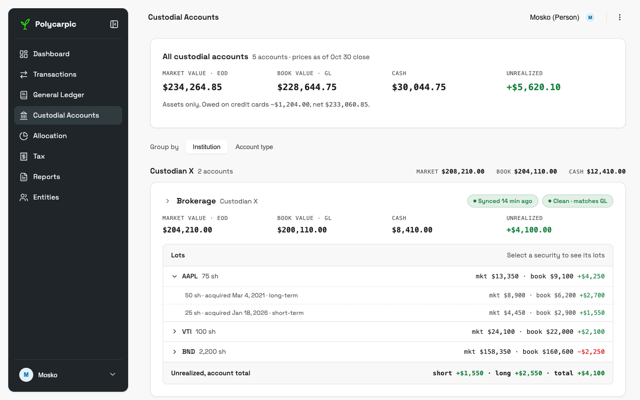
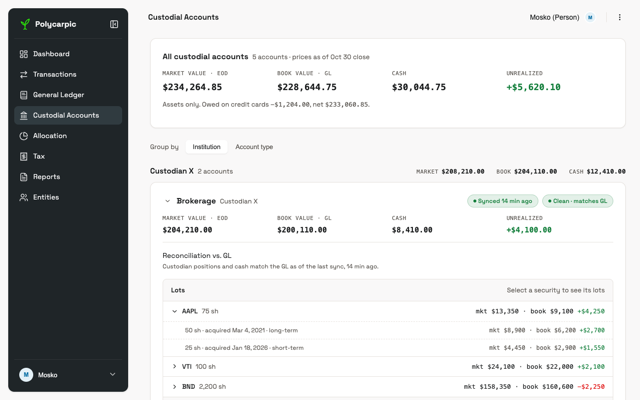
docs(design): lots live inside the expanded Custodial card
The account chevron opens reconciliation, then the lots sub-card with
its per-security pull-downs. A collapsed card is header and figures
only. Primary Checking and Brokerage are shown open.

Claude-Session: https://claude.ai/code/session_01ShccjFP7Z1Dk7HdwDs5thG

Changed region(s): [[0.6875, 0.63, 0.9688, 0.99], [0.25, 0.63, 0.5938, 0.99]]

diff --git a/docs/DESIGN/styled-screens/custodial-accounts.html b/docs/DESIGN/styled-screens/custodial-accounts.html
@@ -8,7 +8,7 @@
 <link rel="stylesheet" href="../screen.css">
 </head>
 <body>
-<!-- Custodial Accounts. A totals card, a group-by toggle (Institution by default, or Account type), then one card per physical account under group headers. A group header carries the account count and the summed market value, book value and cash; the Account type headers are shown as a reference below the groups. The default is Institution because a link and its sync, token and re-auth belong to one provider, so a broken link reads as one group. Every card shows the same three figures side by side, left to right: market value (cash + positions at EOD prices), book value (the GL's cost basis, cash included) and cash balance, then Unrealized; the order reads as "market and book include cash"; the totals card sums them across asset accounts, whichever grouping is on, and states what is owed on credit cards beside it. A credit card shows what is owed as a negative market and book value, with no cash or Unrealized, and that negative nets into its group. The card header carries two badges in a fixed order: link health first (caution tier for an expired or stale link that still has cached data), then reconciliation vs. GL, because a reconciliation is only as current as the link behind it. A card rests collapsed to its header and figures; a chevron left of the title opens its reconciliation details (Primary Checking shown open: a known unposted delta, the custodian $42.00 below the GL by exactly one staged draft, with the muted badge and a link to Pending, not a break). For a brokerage the lots sub-card stays its own Collapsible outside those details, one security pulled down, because lots answer a different question from reconciliation. Sync pulls balances AND positions. The provider-item Dialog (More > New provider item) is shown open below the cards as the reference, same convention as the journal-entry modal. Viewers see no Sync / New / token-refresh / unlink actions. -->
+<!-- Custodial Accounts. A totals card, a group-by toggle (Institution by default, or Account type), then one card per physical account under group headers. A group header carries the account count and the summed market value, book value and cash; the Account type headers are shown as a reference below the groups. The default is Institution because a link and its sync, token and re-auth belong to one provider, so a broken link reads as one group. Every card shows the same three figures side by side, left to right: market value (cash + positions at EOD prices), book value (the GL's cost basis, cash included) and cash balance, then Unrealized; the order reads as "market and book include cash"; the totals card sums them across asset accounts, whichever grouping is on, and states what is owed on credit cards beside it. A credit card shows what is owed as a negative market and book value, with no cash or Unrealized, and that negative nets into its group. The card header carries two badges in a fixed order: link health first (caution tier for an expired or stale link that still has cached data), then reconciliation vs. GL, because a reconciliation is only as current as the link behind it. A card rests collapsed to its header and figures; a chevron left of the title opens its details. Details are the reconciliation line, then for an account that holds securities the lots sub-card with a pull-down per security. Two cards are shown open: Primary Checking for a known unposted delta (the custodian $42.00 below the GL by exactly one staged draft, with the muted badge and a link to Pending, not a break) and Brokerage for its lots, one security pulled down. Sync pulls balances AND positions. The provider-item Dialog (More > New provider item) is shown open below the cards as the reference, same convention as the journal-entry modal. Viewers see no Sync / New / token-refresh / unlink actions. -->
 <div class="shell">
   <aside class="sidebar" id="app-sidebar">
     <!-- Brand row (pass 12, Gemini pattern): expanded = logo + wordmark,
@@ -83,7 +83,7 @@
       </div>
     <div class="card">
       <div class="custodial-head">
-        <span class="custodial-title"><button class="alloc-disclosure" type="button" aria-expanded="false" aria-controls="recon-brokerage" aria-label="Show Brokerage reconciliation details"><span class="icon icon-sm"><svg viewBox="0 0 24 24" fill="none" stroke="currentColor" stroke-width="2" stroke-linecap="round" stroke-linejoin="round" aria-hidden="true"><path d="m9 18 6-6-6-6"/></svg></span></button><span class="custodial-name">Brokerage <span class="institution">Custodian X</span></span></span>
+        <span class="custodial-title"><button class="alloc-disclosure" type="button" aria-expanded="true" aria-controls="details-brokerage" aria-label="Hide Brokerage details"><span class="icon icon-sm"><svg viewBox="0 0 24 24" fill="none" stroke="currentColor" stroke-width="2" stroke-linecap="round" stroke-linejoin="round" aria-hidden="true"><path d="m6 9 6 6 6-6"/></svg></span></button><span class="custodial-name">Brokerage <span class="institution">Custodian X</span></span></span>
         <span class="custodial-meta"><span class="badge badge-positive-soft"><span class="status-dot"></span>Synced 14 min ago</span><span title="Reconciliation vs. GL" class="badge badge-positive-soft"><span class="status-dot"></span>Clean · matches GL</span></span>
       </div>
       <div class="custodial-figs">
@@ -92,22 +92,22 @@
         <div class="custodial-fig"><span class="eyebrow">Cash</span><span class="custodial-fig-value">$8,410.00</span></div>
         <div class="custodial-fig"><span class="eyebrow">Unrealized</span><span class="custodial-fig-value"><span class="gain-positive">+$4,100.00</span></span></div>
       </div>
-      <div class="custodial-recon" id="recon-brokerage" role="group" aria-label="Brokerage reconciliation details" hidden>
+      <div class="custodial-details" id="details-brokerage" role="group" aria-label="Brokerage details">
         <div class="kv-row"><span class="kv-label">Reconciliation vs. GL<span class="kv-help">Custodian positions and cash match the GL as of the last sync, 14 min ago.</span></span></div>
-      </div>
-      <div class="lots">
-        <div class="lots-head"><span>Lots</span><span class="card-sub" style="font-weight:400;">Select a security to see its lots</span></div>
-        <div class="lot-security" aria-expanded="true"><span class="lot-name"><span class="icon icon-sm"><svg viewBox="0 0 24 24" fill="none" stroke="currentColor" stroke-width="2" stroke-linecap="round" stroke-linejoin="round"><path d="m6 9 6 6 6-6"/></svg></span>AAPL <span class="card-sub" style="font-weight:400;">75 sh</span></span><span class="lot-figs">mkt $13,350 · book $9,100 <span class="gain-positive">+$4,250</span></span></div>
-        <div class="lot-detail"><span>50 sh · acquired Mar 4, 2021 · long-term</span><span class="lot-figs">mkt $8,900 · book $6,200 <span class="gain-positive">+$2,700</span></span></div>
-        <div class="lot-detail"><span>25 sh · acquired Jan 18, 2026 · short-term</span><span class="lot-figs">mkt $4,450 · book $2,900 <span class="gain-positive">+$1,550</span></span></div>
-        <div class="lot-security" aria-expanded="false"><span class="lot-name"><span class="icon icon-sm"><svg viewBox="0 0 24 24" fill="none" stroke="currentColor" stroke-width="2" stroke-linecap="round" stroke-linejoin="round"><path d="m9 18 6-6-6-6"/></svg></span>VTI <span class="card-sub" style="font-weight:400;">100 sh</span></span><span class="lot-figs">mkt $24,100 · book $22,000 <span class="gain-positive">+$2,100</span></span></div>
-        <div class="lot-security" aria-expanded="false"><span class="lot-name"><span class="icon icon-sm"><svg viewBox="0 0 24 24" fill="none" stroke="currentColor" stroke-width="2" stroke-linecap="round" stroke-linejoin="round"><path d="m9 18 6-6-6-6"/></svg></span>BND <span class="card-sub" style="font-weight:400;">2,200 sh</span></span><span class="lot-figs">mkt $158,350 · book $160,600 <span class="gain-negative">−$2,250</span></span></div>
-        <div class="lots-total"><span>Unrealized, account total</span><span class="lot-figs">short <span class="gain-positive">+$1,550</span> · long <span class="gain-positive">+$2,550</span> · total <span class="gain-positive">+$4,100</span></span></div>
+        <div class="lots">
+          <div class="lots-head"><span>Lots</span><span class="card-sub" style="font-weight:400;">Select a security to see its lots</span></div>
+          <div class="lot-security" aria-expanded="true"><span class="lot-name"><span class="icon icon-sm"><svg viewBox="0 0 24 24" fill="none" stroke="currentColor" stroke-width="2" stroke-linecap="round" stroke-linejoin="round"><path d="m6 9 6 6 6-6"/></svg></span>AAPL <span class="card-sub" style="font-weight:400;">75 sh</span></span><span class="lot-figs">mkt $13,350 · book $9,100 <span class="gain-positive">+$4,250</span></span></div>
+          <div class="lot-detail"><span>50 sh · acquired Mar 4, 2021 · long-term</span><span class="lot-figs">mkt $8,900 · book $6,200 <span class="gain-positive">+$2,700</span></span></div>
+          <div class="lot-detail"><span>25 sh · acquired Jan 18, 2026 · short-term</span><span class="lot-figs">mkt $4,450 · book $2,900 <span class="gain-positive">+$1,550</span></span></div>
+          <div class="lot-security" aria-expanded="false"><span class="lot-name"><span class="icon icon-sm"><svg viewBox="0 0 24 24" fill="none" stroke="currentColor" stroke-width="2" stroke-linecap="round" stroke-linejoin="round"><path d="m9 18 6-6-6-6"/></svg></span>VTI <span class="card-sub" style="font-weight:400;">100 sh</span></span><span class="lot-figs">mkt $24,100 · book $22,000 <span class="gain-positive">+$2,100</span></span></div>
+          <div class="lot-security" aria-expanded="false"><span class="lot-name"><span class="icon icon-sm"><svg viewBox="0 0 24 24" fill="none" stroke="currentColor" stroke-width="2" stroke-linecap="round" stroke-linejoin="round"><path d="m9 18 6-6-6-6"/></svg></span>BND <span class="card-sub" style="font-weight:400;">2,200 sh</span></span><span class="lot-figs">mkt $158,350 · book $160,600 <span class="gain-negative">−$2,250</span></span></div>
+          <div class="lots-total"><span>Unrealized, account total</span><span class="lot-figs">short <span class="gain-positive">+$1,550</span> · long <span class="gain-positive">+$2,550</span> · total <span class="gain-positive">+$4,100</span></span></div>
+        </div>
       </div>
     </div>
     <div class="card">
       <div class="custodial-head">
-        <span class="custodial-title"><button class="alloc-disclosure" type="button" aria-expanded="false" aria-controls="recon-roth-ira" aria-label="Show Roth IRA reconciliation details"><span class="icon icon-sm"><svg viewBox="0 0 24 24" fill="none" stroke="currentColor" stroke-width="2" stroke-linecap="round" stroke-linejoin="round" aria-hidden="true"><path d="m9 18 6-6-6-6"/></svg></span></button><span class="custodial-name">Roth IRA <span class="institution">Custodian X</span></span></span>
+        <span class="custodial-title"><button class="alloc-disclosure" type="button" aria-expanded="false" aria-controls="details-roth-ira" aria-label="Show Roth IRA details"><span class="icon icon-sm"><svg viewBox="0 0 24 24" fill="none" stroke="currentColor" stroke-width="2" stroke-linecap="round" stroke-linejoin="round" aria-hidden="true"><path d="m9 18 6-6-6-6"/></svg></span></button><span class="custodial-name">Roth IRA <span class="institution">Custodian X</span></span></span>
         <span class="custodial-meta"><span class="badge badge-positive-soft"><span class="status-dot"></span>Synced 14 min ago</span><span title="Reconciliation vs. GL" class="badge badge-positive-soft"><span class="status-dot"></span>Clean · matches GL</span></span>
       </div>
       <div class="custodial-figs">
@@ -116,7 +116,7 @@
         <div class="custodial-fig"><span class="eyebrow">Cash</span><span class="custodial-fig-value">$4,000.00</span></div>
         <div class="custodial-fig"><span class="eyebrow">Unrealized</span><span class="custodial-fig-value">$0.00</span></div>
       </div>
-      <div class="custodial-recon" id="recon-roth-ira" role="group" aria-label="Roth IRA reconciliation details" hidden>
+      <div class="custodial-details" id="details-roth-ira" role="group" aria-label="Roth IRA details" hidden>
         <div class="kv-row"><span class="kv-label">Reconciliation vs. GL<span class="kv-help">Custodian cash matches the GL as of the last sync, 14 min ago.</span></span></div>
       </div>
     </div>
@@ -128,7 +128,7 @@
       </div>
     <div class="card">
       <div class="custodial-head">
-        <span class="custodial-title"><button class="alloc-disclosure" type="button" aria-expanded="true" aria-controls="recon-primary-checking" aria-label="Hide Primary Checking reconciliation details"><span class="icon icon-sm"><svg viewBox="0 0 24 24" fill="none" stroke="currentColor" stroke-width="2" stroke-linecap="round" stroke-linejoin="round" aria-hidden="true"><path d="m6 9 6 6 6-6"/></svg></span></button><span class="custodial-name">Primary Checking <span class="institution">Bank Y</span></span></span>
+        <span class="custodial-title"><button class="alloc-disclosure" type="button" aria-expanded="true" aria-controls="details-primary-checking" aria-label="Hide Primary Checking details"><span class="icon icon-sm"><svg viewBox="0 0 24 24" fill="none" stroke="currentColor" stroke-width="2" stroke-linecap="round" stroke-linejoin="round" aria-hidden="true"><path d="m6 9 6 6 6-6"/></svg></span></button><span class="custodial-name">Primary Checking <span class="institution">Bank Y</span></span></span>
         <span class="custodial-meta"><span class="badge badge-positive-soft"><span class="status-dot"></span>Synced 14 min ago</span><a class="badge badge-muted" href="transactions.html?account=primary-checking#pending" title="Open the staged draft in Pending, filtered to Primary Checking"><span class="icon icon-sm"><svg viewBox="0 0 24 24" fill="none" stroke="currentColor" stroke-width="2" stroke-linecap="round" stroke-linejoin="round" aria-hidden="true"><circle cx="12" cy="12" r="10"/><polyline points="12 6 12 12 16 14"/></svg></span>Known delta: 1 staged draft, −$42.00</a></span>
       </div>
       <div class="custodial-figs">
@@ -137,13 +137,13 @@
         <div class="custodial-fig"><span class="eyebrow">Cash</span><span class="custodial-fig-value">$17,634.75</span></div>
         <div class="custodial-fig"><span class="eyebrow">Unrealized</span><span class="custodial-fig-value">$0.00</span></div>
       </div>
-      <div class="custodial-recon" id="recon-primary-checking" role="group" aria-label="Primary Checking reconciliation details">
+      <div class="custodial-details" id="details-primary-checking" role="group" aria-label="Primary Checking details">
         <div class="kv-row"><span class="kv-label">Reconciliation vs. GL<span class="kv-help">Custodian reports $17,592.75; GL $17,634.75. The difference is one staged draft, not a break.</span></span><span class="kv-value"><a class="je-link" href="transactions.html?account=primary-checking#pending">Open the staged draft in Pending</a></span></div>
       </div>
     </div>
     <div class="card">
       <div class="custodial-head">
-        <span class="custodial-title"><button class="alloc-disclosure" type="button" aria-expanded="false" aria-controls="recon-visa-bank-y" aria-label="Show Visa — Bank Y reconciliation details"><span class="icon icon-sm"><svg viewBox="0 0 24 24" fill="none" stroke="currentColor" stroke-width="2" stroke-linecap="round" stroke-linejoin="round" aria-hidden="true"><path d="m9 18 6-6-6-6"/></svg></span></button><span class="custodial-name">Visa — Bank Y <span class="institution">Credit card</span></span></span>
+        <span class="custodial-title"><button class="alloc-disclosure" type="button" aria-expanded="false" aria-controls="details-visa-bank-y" aria-label="Show Visa — Bank Y details"><span class="icon icon-sm"><svg viewBox="0 0 24 24" fill="none" stroke="currentColor" stroke-width="2" stroke-linecap="round" stroke-linejoin="round" aria-hidden="true"><path d="m9 18 6-6-6-6"/></svg></span></button><span class="custodial-name">Visa — Bank Y <span class="institution">Credit card</span></span></span>
         <span class="custodial-meta"><span class="badge badge-positive-soft"><span class="status-dot"></span>Synced 14 min ago</span><span title="Reconciliation vs. GL" class="badge badge-positive-soft"><span class="status-dot"></span>Clean · matches GL</span></span>
       </div>
       <div class="custodial-figs">
@@ -152,7 +152,7 @@
         <div class="custodial-fig"><span class="eyebrow">Cash</span><span class="custodial-fig-value"><span aria-label="Not applicable">—</span></span></div>
         <div class="custodial-fig"><span class="eyebrow">Unrealized</span><span class="custodial-fig-value"><span aria-label="Not applicable">—</span></span></div>
       </div>
-      <div class="custodial-recon" id="recon-visa-bank-y" role="group" aria-label="Visa — Bank Y reconciliation details" hidden>
+      <div class="custodial-details" id="details-visa-bank-y" role="group" aria-label="Visa — Bank Y details" hidden>
         <div class="kv-row"><span class="kv-label">Reconciliation vs. GL<span class="kv-help">Custodian reports $1,204.00 owed; GL $1,204.00.</span></span></div>
       </div>
     </div>
@@ -164,7 +164,7 @@
       </div>
     <div class="card">
       <div class="custodial-head">
-        <span class="custodial-title"><button class="alloc-disclosure" type="button" aria-expanded="false" aria-controls="recon-crypto-wallet" aria-label="Show Crypto Wallet reconciliation details"><span class="icon icon-sm"><svg viewBox="0 0 24 24" fill="none" stroke="currentColor" stroke-width="2" stroke-linecap="round" stroke-linejoin="round" aria-hidden="true"><path d="m9 18 6-6-6-6"/></svg></span></button><span class="custodial-name">Crypto Wallet <span class="institution">Coinbase</span></span></span>
+        <span class="custodial-title"><button class="alloc-disclosure" type="button" aria-expanded="false" aria-controls="details-crypto-wallet" aria-label="Show Crypto Wallet details"><span class="icon icon-sm"><svg viewBox="0 0 24 24" fill="none" stroke="currentColor" stroke-width="2" stroke-linecap="round" stroke-linejoin="round" aria-hidden="true"><path d="m9 18 6-6-6-6"/></svg></span></button><span class="custodial-name">Crypto Wallet <span class="institution">Coinbase</span></span></span>
         <span class="custodial-meta"><span class="badge badge-warning-soft"><span class="status-dot"></span>Token expired · re-auth needed</span><span title="Reconciliation vs. GL" class="badge badge-warning-soft"><span class="status-dot"></span>Stale · last synced 6 days ago</span></span>
       </div>
       <div class="custodial-figs">
@@ -173,7 +173,7 @@
         <div class="custodial-fig"><span class="eyebrow">Cash</span><span class="custodial-fig-value">$0.00</span></div>
         <div class="custodial-fig"><span class="eyebrow">Unrealized</span><span class="custodial-fig-value"><span class="gain-positive">+$1,520.10</span></span></div>
       </div>
-      <div class="custodial-recon" id="recon-crypto-wallet" role="group" aria-label="Crypto Wallet reconciliation details" hidden>
+      <div class="custodial-details" id="details-crypto-wallet" role="group" aria-label="Crypto Wallet details" hidden>
         <div class="kv-row"><span class="kv-label">Reconciliation vs. GL<span class="kv-help">The custodian balance is from the last sync, 6 days ago. Re-authenticate the provider to reconcile.</span></span></div>
       </div>
     </div>

diff --git a/docs/DESIGN/index.html b/docs/DESIGN/index.html
@@ -394,7 +394,7 @@ flowchart TD
     <li><strong>Three figures on every account, left to right:</strong> market value (cash plus every position at the last EOD price); book value (the GL's cost basis, cash included — the GL's own balance for the mirrored account); cash balance; and Unrealized = market − book, signed and coloured per § Delta coloring. A cash-only account shows the same row with equal figures and a <code>$0.00</code> delta, so cards scan as columns. A totals card sums the four figures across accounts, with the price date. Cash sits last so the row reads as "market and book include cash" — the two totals first, the cash already inside them after.</li>
     <li><strong>Group by Institution or Account type.</strong> A <code>Tabs</code> toggle under the totals card groups the account cards; Institution is the default, and the choice persists per user. A group header carries the account count and the summed market value, book value and cash. The totals card sums asset accounts whichever grouping is on.</li>
     <li><strong>A credit card is a liability.</strong> Market value and book value both show what is owed, as a negative; cash and Unrealized show a dash. The negative nets into its group, and the totals card states it beside the asset total.</li>
-    <li><strong>The card rests collapsed.</strong> The header carries two badges in a fixed order, link health then reconciliation, because a reconciliation is only as current as the link behind it. A chevron left of the title opens the reconciliation details: the custodian's figure against the GL, and the link to any staged drafts. The lots sub-card stays its own pull-down outside those details: lots answer what is held, reconciliation whether the balances agree.</li>
+    <li><strong>The card rests collapsed.</strong> The header carries two badges in a fixed order, link health then reconciliation, because a reconciliation is only as current as the link behind it. A chevron left of the title opens the card's details: the custodian's figure against the GL and the link to any staged drafts, then, on an account that holds securities, the lots sub-card with its pull-down per security. A drill to lots arrives with that account's card open.</li>
     <li>An account's Unrealized figure equals its lots sub-card's total unrealized gain; the two must agree.</li>
     <li><strong>Two nav items:</strong> General Ledger and Custodial Accounts are two separate nav items, not one screen behind a <code>Tabs</code> switch. Both read the same lot and journal data; the split is presentation, not a data fork.</li>
     <li><strong>Unapproved drafts are a known unposted delta, not a break.</strong> When the GL and custodian balances differ by exactly the account's staged drafts (e.g. an unmatched transfer leg not yet approved into Cash in Transit), the card shows the delta and lists those drafts, linking to Pending on Transactions; no danger tier. Only a difference the drafts do not explain is a break.</li>
@@ -561,7 +561,7 @@ flowchart TD
     <figure class="screen-card"><a href="styled-screens/transactions.html"><img src="styled-screens/thumbs/transactions.png" alt="Transactions screen"></a><figcaption><a href="styled-screens/transactions.html">Transactions</a><span>Exceptions / Pending / Posted tabs with count badges, opening on the Plaid review-and-match inbox; split grid, bulk bar, Posted rows led by Journal ID, journal entry popover, journal-entry modal.</span></figcaption></figure>
     <figure class="screen-card"><a href="styled-screens/general-ledger.html"><img src="styled-screens/thumbs/general-ledger.png" alt="General Ledger screen"></a><figcaption><a href="styled-screens/general-ledger.html">General Ledger</a><span>Three tabs: Chart of accounts (default) with custodial cross-reference badges, each account opening its register; Balance sheet map (prototype treemap); Journal entries with page size, date range and sort.</span></figcaption></figure>
     <figure class="screen-card"><a href="styled-screens/account-register.html"><img src="styled-screens/thumbs/account-register.png" alt="Account register screen"></a><figcaption><a href="styled-screens/account-register.html">Account register</a><span>Drill-down from the GL: multi-crumb breadcrumb, Journal ID plus Dr/Cr/running-balance table, each line expanding to its full entry; Corrected and rule-posted rows.</span></figcaption></figure>
-    <figure class="screen-card"><a href="styled-screens/custodial-accounts.html"><img src="styled-screens/thumbs/custodial-accounts.png" alt="Custodial Accounts screen"></a><figcaption><a href="styled-screens/custodial-accounts.html">Custodial Accounts</a><span>Totals card, a group-by toggle (Institution or Account type), then per-account cards under group headers: link-health and reconciliation badges in the header, market value, book value and cash side by side, reconciliation details behind a chevron, a lots sub-card; the provider-item dialog shown open.</span></figcaption></figure>
+    <figure class="screen-card"><a href="styled-screens/custodial-accounts.html"><img src="styled-screens/thumbs/custodial-accounts.png" alt="Custodial Accounts screen"></a><figcaption><a href="styled-screens/custodial-accounts.html">Custodial Accounts</a><span>Totals card, a group-by toggle (Institution or Account type), then per-account cards under group headers: link-health and reconciliation badges in the header, market value, book value and cash side by side, reconciliation details and a lots sub-card behind a chevron; the provider-item dialog shown open.</span></figcaption></figure>
     <figure class="screen-card"><a href="styled-screens/allocation.html"><img src="styled-screens/thumbs/allocation.png" alt="Allocation screen"></a><figcaption><a href="styled-screens/allocation.html">Allocation</a><span>Current allocation as a nested treemap on top; actual vs. target below, each class pulling down to its sub-categories and drilling to its lots; a gear opens the two-level target editor in a popover (shown open).</span></figcaption></figure>
     <figure class="screen-card"><a href="styled-screens/tax.html"><img src="styled-screens/thumbs/tax.png" alt="Tax screen"></a><figcaption><a href="styled-screens/tax.html">Tax</a><span>Per entity and jurisdiction: pending liability and safe-harbor gap side by side, status tier, installment timeline, prepaid-tax account; Post your payment.</span></figcaption></figure>
     <figure class="screen-card"><a href="styled-screens/reports.html"><img src="styled-screens/thumbs/reports.png" alt="Reports screen"></a><figcaption><a href="styled-screens/reports.html">Reports</a><span>Balance Sheet empty state plus dimmed previews of the Income Statement and Cash Flow shapes.</span></figcaption></figure>

diff --git a/docs/DESIGN/screen.css b/docs/DESIGN/screen.css
@@ -1475,9 +1475,11 @@ table.data-table tr.opening td { color: var(--muted-foreground); font-style: ita
 .custodial-group-figs .mono { font-variant-numeric: tabular-nums; font-weight: 600; }
 .custodial-group-ref { margin-top: 28px; padding-top: 16px; border-top: 1px solid var(--border); }
 .custodial-group-ref .custodial-group-head { margin: 12px 0 0; }
-.custodial-recon { margin-top: 12px; padding-top: 4px; border-top: 1px solid var(--border); }
-.custodial-recon[hidden] { display: none; }
-.custodial-recon .je-link { font-size: 13px; }
+.custodial-details { margin-top: 12px; padding-top: 4px; border-top: 1px solid var(--border); }
+.custodial-details[hidden] { display: none; }
+.custodial-details .je-link { font-size: 13px; }
+.custodial-details > .kv-row { border-bottom: none; }
+.custodial-details > .lots { margin-top: 4px; }
 .lots { margin-top: 16px; border: 1px solid var(--border); border-radius: var(--radius-md); background: var(--muted); overflow: hidden; }
 .lots-head { padding: 12px 16px; font-size: 13px; font-weight: 600; display: flex; justify-content: space-between; gap: 12px; }
 .lot-security { display: grid; grid-template-columns: 1fr auto; align-items: center; gap: 12px; padding: 10px 16px; border-top: 1px solid var(--border); font-size: 13px; background: var(--card); cursor: pointer; }

diff --git a/docs/DESIGN/design-system-spec.md b/docs/DESIGN/design-system-spec.md
@@ -553,7 +553,7 @@ A nested treemap of the chart of accounts, prototyped on the Balance sheet map t
 |---|---|---|
 | **Market value · EOD** | Cash plus every position at the last end-of-day price | Lots × daily EOD price feed |
 | **Book value · GL** | Cost basis of everything in the account, cash included — the GL's own balance for the mirrored account | General Ledger (lots at cost) |
-| **Cash** | The account's cash balance (a brokerage's sweep cash; the whole balance of a bank account) | The GL's cash balance; when the custodian reports a different figure, the reconciliation details show it |
+| **Cash** | The account's cash balance (a brokerage's sweep cash; the whole balance of a bank account) | The GL's cash balance; when the custodian reports a different figure, the card's details show it |
 | **Unrealized** | Unrealized gain or loss, signed and coloured per § Delta coloring | Derived |
 
 A cash-only account shows the same row with the three figures equal and a `$0.00` delta: the row keeps one shape on every card, so accounts scan as a column. A **totals card** above the account cards sums the same four figures across every custodial asset account for the entity, with the price date ("prices as of <date> close"). Unrealized on an account equals its lots sub-card's total unrealized gain; the two figures must agree.
@@ -562,7 +562,7 @@ A cash-only account shows the same row with the three figures equal and a `$0.00
 
 **A credit card is a liability.** Its card keeps the row's shape: market value and book value both show what is owed, as a negative in plain ink (`−$1,204.00`, not a loss, so no `--destructive`); cash and Unrealized show a dash, because neither applies. In a group header the negative nets into market and book value, and cash stays the cash of the group's asset accounts. The totals card sums asset accounts only, which is the figure Allocation reads, and a line under it states what is owed on credit cards and the net.
 
-**Per-account card:** a chevron and the account and institution names on the left; two badges on the right, in a fixed order; the three-figure row below. The first badge is link health, the second reconciliation against the GL (clean / stale / break, per the status tiers — the danger tier surfaces on the Dashboard too, per flow 5.5). Link health comes first because a reconciliation is only as current as the link behind it. A card rests collapsed to its header and figures, so status reads at a glance and costs one row. The chevron (the `.alloc-disclosure` idiom, a `Collapsible`) opens the **reconciliation details**: the custodian's figure against the GL, in words, and the link to any staged drafts. Each card opens on its own. The lots sub-card stays its own `Collapsible` outside those details, visible on a collapsed card: lots answer what is held, reconciliation whether the balances agree. A difference explained exactly by the account's staged drafts is a **known unposted delta**, not a break: the header carries a muted `Known delta` badge (clock icon, `--muted` fill, no status hue) naming the draft count and amount and linking to those drafts in Pending on Transactions, and the details show the custodian's figure and the same link.
+**Per-account card:** a chevron and the account and institution names on the left; two badges on the right, in a fixed order; the three-figure row below. The first badge is link health, the second reconciliation against the GL (clean / stale / break, per the status tiers — the danger tier surfaces on the Dashboard too, per flow 5.5). Link health comes first because a reconciliation is only as current as the link behind it. A card rests collapsed to its header and figures, so status reads at a glance and costs one row. The chevron (the `.alloc-disclosure` idiom, a `Collapsible`) opens the card's **details**: first reconciliation, the custodian's figure against the GL in words and the link to any staged drafts; then, on an account that holds securities, the lots sub-card with its pull-down per security. Each card opens on its own. A drill to lots, from Allocation for one, arrives with that account's card open. A difference explained exactly by the account's staged drafts is a **known unposted delta**, not a break: the header carries a muted `Known delta` badge (clock icon, `--muted` fill, no status hue) naming the draft count and amount and linking to those drafts in Pending on Transactions, and the details show the custodian's figure and the same link.
 
 **The lots sub-card (only on accounts that hold securities):**
 - One row per security, collapsed by default — a pull-down (chevron) reveals its individual lots.
@@ -581,7 +581,7 @@ A cash-only account shows the same row with the three figures equal and a `$0.00
 
 **Permissions:** New provider item, token refresh, unlink, and Sync/Import file are Manager/Owner actions — a Viewer sees none of them (same posture as Transactions' posting actions, ARCH §2.4 permissions table).
 
-See `styled-screens/custodial-accounts.html`: the lots sub-card shows one security pulled down, and the provider-item dialog is shown open below the cards as the reference.
+See `styled-screens/custodial-accounts.html`: two cards are open, Primary Checking for reconciliation and Brokerage for its lots sub-card with one security pulled down, and the provider-item dialog is shown open below the cards as the reference.
 
 ---
 
@@ -756,7 +756,7 @@ Every icon in use is named above. Add a row whenever a new control lands, rather
 | Potential-duplicate warning (New entry modal, Pending row) | Caution-tier inline block + **Button**s | Names the matched transaction above the modal's actions, or the matched manual entry on a Pending row; the row badge is `outline` in muted ink |
 | Chart-of-accounts tree | `custom` | No shadcn tree component; built from nested disclosure rows (could adopt a community tree primitive later if one matures) |
 | Lots sub-card pull-down | **Collapsible** | Direct reuse — a simpler primitive than Accordion for a single expand/collapse row |
-| Custodial card reconciliation details | **Collapsible** | Each card opens independently, so not an Accordion |
+| Custodial card details | **Collapsible** | Each card opens independently, so not an Accordion |
 | Settings on/off preferences | **Switch** | Direct reuse |
 | Settings theme picker (Light / Dark / Auto) | **Toggle Group** (single) | Rendered with the `.tabs` look; semantically a radio group, not tabs |
 | Brand app bar (Home, Get started, Admin) | `custom`, with **Button** / **Badge** / **Avatar** for the trailing items | One component for every shell-less page: a fixed bar with a lockup, trailing items and a fade; too small and too brand-specific to be a block. No sidebar because no entity exists (setup), none applies (operator), or the visitor is not signed in (Home) |
@@ -789,7 +789,7 @@ Every icon in use is named above. Add a row whenever a new control lands, rather
 | Transactions | `transactions.html` | sidebar | "more" menu, tabs with count badges, expanded Pending row, split grid, bulk bar, journal-entry modal |
 | General Ledger | `general-ledger.html` | sidebar | three tabs, expanded Journal entries row, date range popover |
 | Account register | `account-register.html` | sidebar (multi-crumb) | expanded register line |
-| Custodial Accounts | `custodial-accounts.html` | sidebar | group-by toggle (Institution on, Account type headers as a reference), reconciliation details (Primary Checking open, the rest collapsed), lots sub-card (AAPL pulled down), provider-item dialog |
+| Custodial Accounts | `custodial-accounts.html` | sidebar | group-by toggle (Institution on, Account type headers as a reference), card details (Primary Checking and Brokerage open, the rest collapsed), lots sub-card (AAPL pulled down), provider-item dialog |
 | Allocation | `allocation.html` | sidebar | target editor popover (open, as a reference below the card) |
 | Tax | `tax.html` | sidebar | Federal tab, danger tier (Q3 installment $200 short) |
 | Reports | `reports.html` | sidebar | dimmed statement previews (review only, not shipped) |

diff --git a/process/DECISIONS.md b/process/DECISIONS.md
@@ -235,7 +235,7 @@ Add new decisions ABOVE this comment, newest first.
 **Approved by:** richmosko (2026-11-05)
 
 ### 2026-11-06 — Custodial Accounts groups by Institution or Account type; a credit card shows what is owed as a negative
-**Decision:** Custodial Accounts has a group-by toggle under the totals card, Institution (default) or Account type, persisted per user. Group headers carry the account count and summed market value, book value and cash. A credit card is a liability: market and book value show what is owed as a negative, cash and Unrealized show a dash, the negative nets into its group, and the totals card sums asset accounts only with what is owed stated beneath. On every account card, reconciliation moves from a row at the bottom to a header badge after link health, and the card rests collapsed to its header and figures, with a chevron opening the reconciliation details; the lots sub-card stays its own Collapsible. The GL's Savings and Prepaid Tax custodial badges with no Custodial Accounts card are accepted as a mock gap.
-**Why:** the Principal: "have a selection toggle at the top to choose to group by Institution, or Account Type (ie: credit cards grouped together)." Institution is the default because a provider link belongs to an institution, so a broken link reads as one group. The totals stay asset-only so they remain the figure Allocation reads. On the card, the Principal: the reconciliation line "takes up a lot of visual attention", asking for "a header badge... and a way to accordian expand the card."
+**Decision:** Custodial Accounts has a group-by toggle under the totals card, Institution (default) or Account type, persisted per user. Group headers carry the account count and summed market value, book value and cash. A credit card is a liability: market and book value show what is owed as a negative, cash and Unrealized show a dash, the negative nets into its group, and the totals card sums asset accounts only with what is owed stated beneath. On every account card, reconciliation moves from a row at the bottom to a header badge after link health, and the card rests collapsed to its header and figures, with a chevron opening its details: reconciliation, then on an account that holds securities the lots sub-card with a pull-down per security. The GL's Savings and Prepaid Tax custodial badges with no Custodial Accounts card are accepted as a mock gap.
+**Why:** the Principal: "have a selection toggle at the top to choose to group by Institution, or Account Type (ie: credit cards grouped together)." Institution is the default because a provider link belongs to an institution, so a broken link reads as one group. The totals stay asset-only so they remain the figure Allocation reads. On the card, the Principal: the reconciliation line "takes up a lot of visual attention", asking for "a header badge... and a way to accordian expand the card", and "The lots should show below (with individual accordions) when the chevron for the account expands for more information."
 **Alternatives considered:** a fixed grouping by institution (loses the credit-cards cut); netting cards into the totals card (the total stops matching Allocation).
 **Approved by:** richmosko (2026-11-06)

diff --git a/docs/DESIGN/flows/securities-lots-flow.md b/docs/DESIGN/flows/securities-lots-flow.md
@@ -28,7 +28,7 @@ flowchart TD
 - **Three figures on every account, left to right:** market value (cash plus every position at the last EOD price); book value (the GL's cost basis, cash included — the GL's own balance for the mirrored account); cash balance; and Unrealized = market − book, signed and coloured per § Delta coloring. A cash-only account shows the same row with equal figures and a `$0.00` delta, so cards scan as columns. A totals card sums the four figures across accounts, with the price date. Cash sits last so the row reads as "market and book include cash" — the two totals first, the cash already inside them after.
 - **Group by Institution or Account type.** A `Tabs` toggle under the totals card groups the account cards; Institution is the default, and the choice persists per user. A group header carries the account count and the summed market value, book value and cash. The totals card sums asset accounts whichever grouping is on.
 - **A credit card is a liability.** Market value and book value both show what is owed, as a negative; cash and Unrealized show a dash. The negative nets into its group, and the totals card states it beside the asset total.
-- **The card rests collapsed.** The header carries two badges in a fixed order, link health then reconciliation, because a reconciliation is only as current as the link behind it. A chevron left of the title opens the reconciliation details: the custodian's figure against the GL, and the link to any staged drafts. The lots sub-card stays its own pull-down outside those details: lots answer what is held, reconciliation whether the balances agree.
+- **The card rests collapsed.** The header carries two badges in a fixed order, link health then reconciliation, because a reconciliation is only as current as the link behind it. A chevron left of the title opens the card's details: the custodian's figure against the GL and the link to any staged drafts, then, on an account that holds securities, the lots sub-card with its pull-down per security. A drill to lots arrives with that account's card open.
 - An account's Unrealized figure equals its lots sub-card's total unrealized gain; the two must agree.
 - **Two nav items:** General Ledger and Custodial Accounts are two separate nav items, not one screen behind a `Tabs` switch. Both read the same lot and journal data; the split is presentation, not a data fork.
 - **Unapproved drafts are a known unposted delta, not a break.** When the GL and custodian balances differ by exactly the account's staged drafts (e.g. an unmatched transfer leg not yet approved into Cash in Transit), the card shows the delta and lists those drafts, linking to Pending on Transactions; no danger tier. Only a difference the drafts do not explain is a break.
